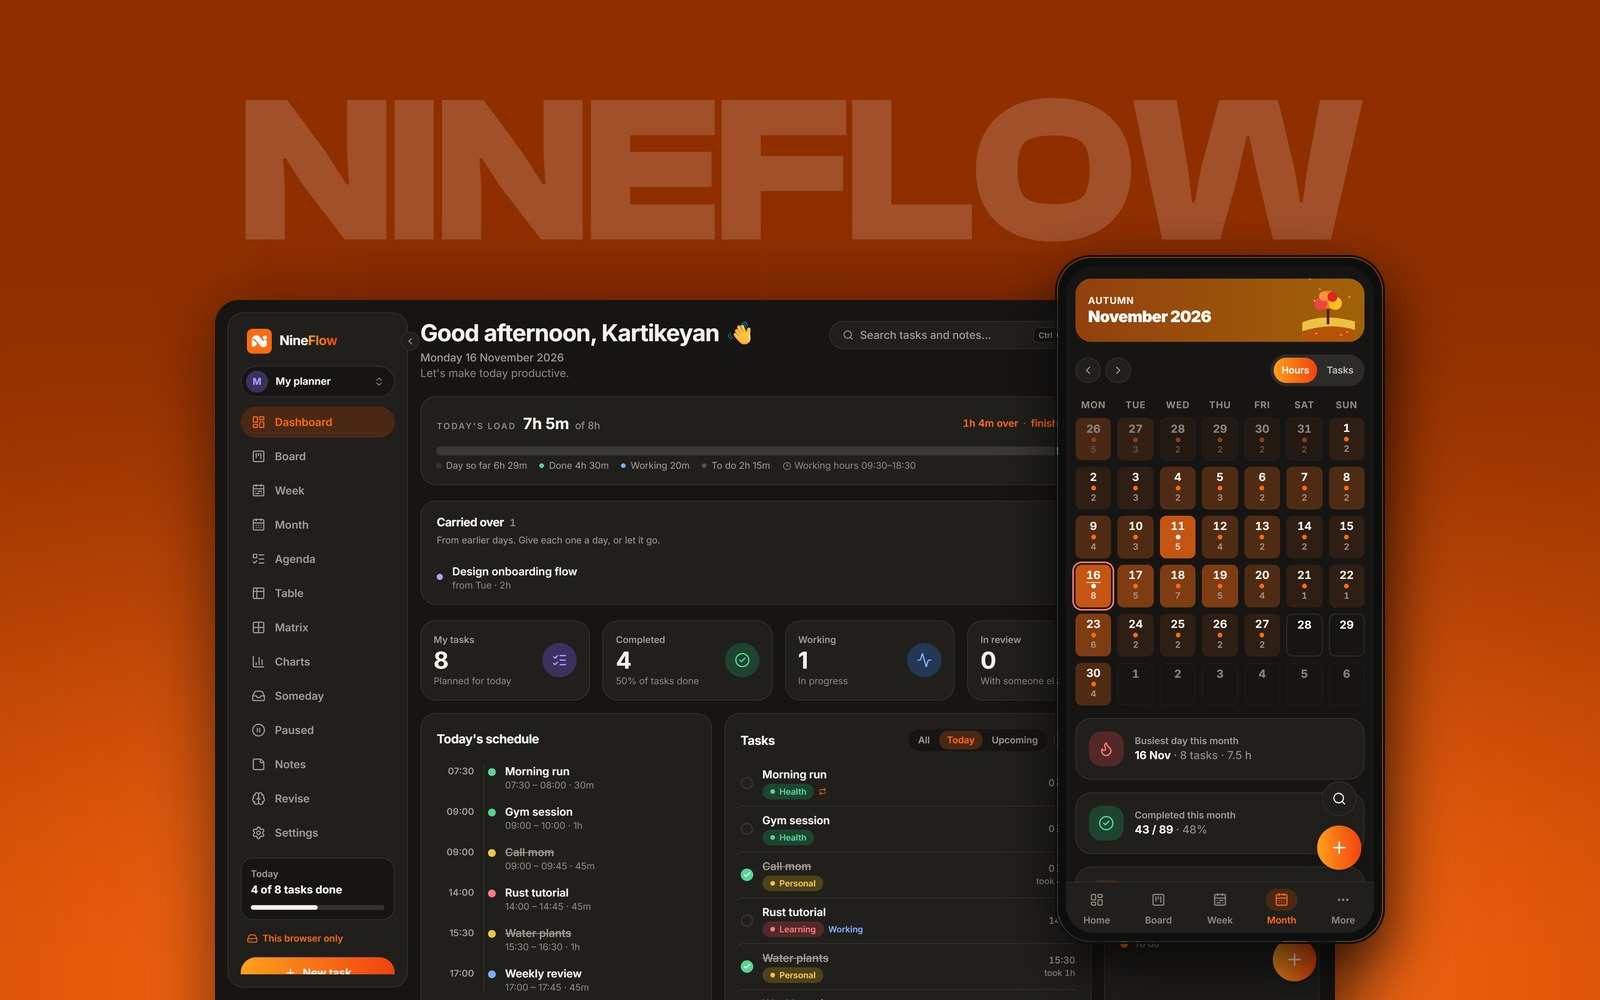
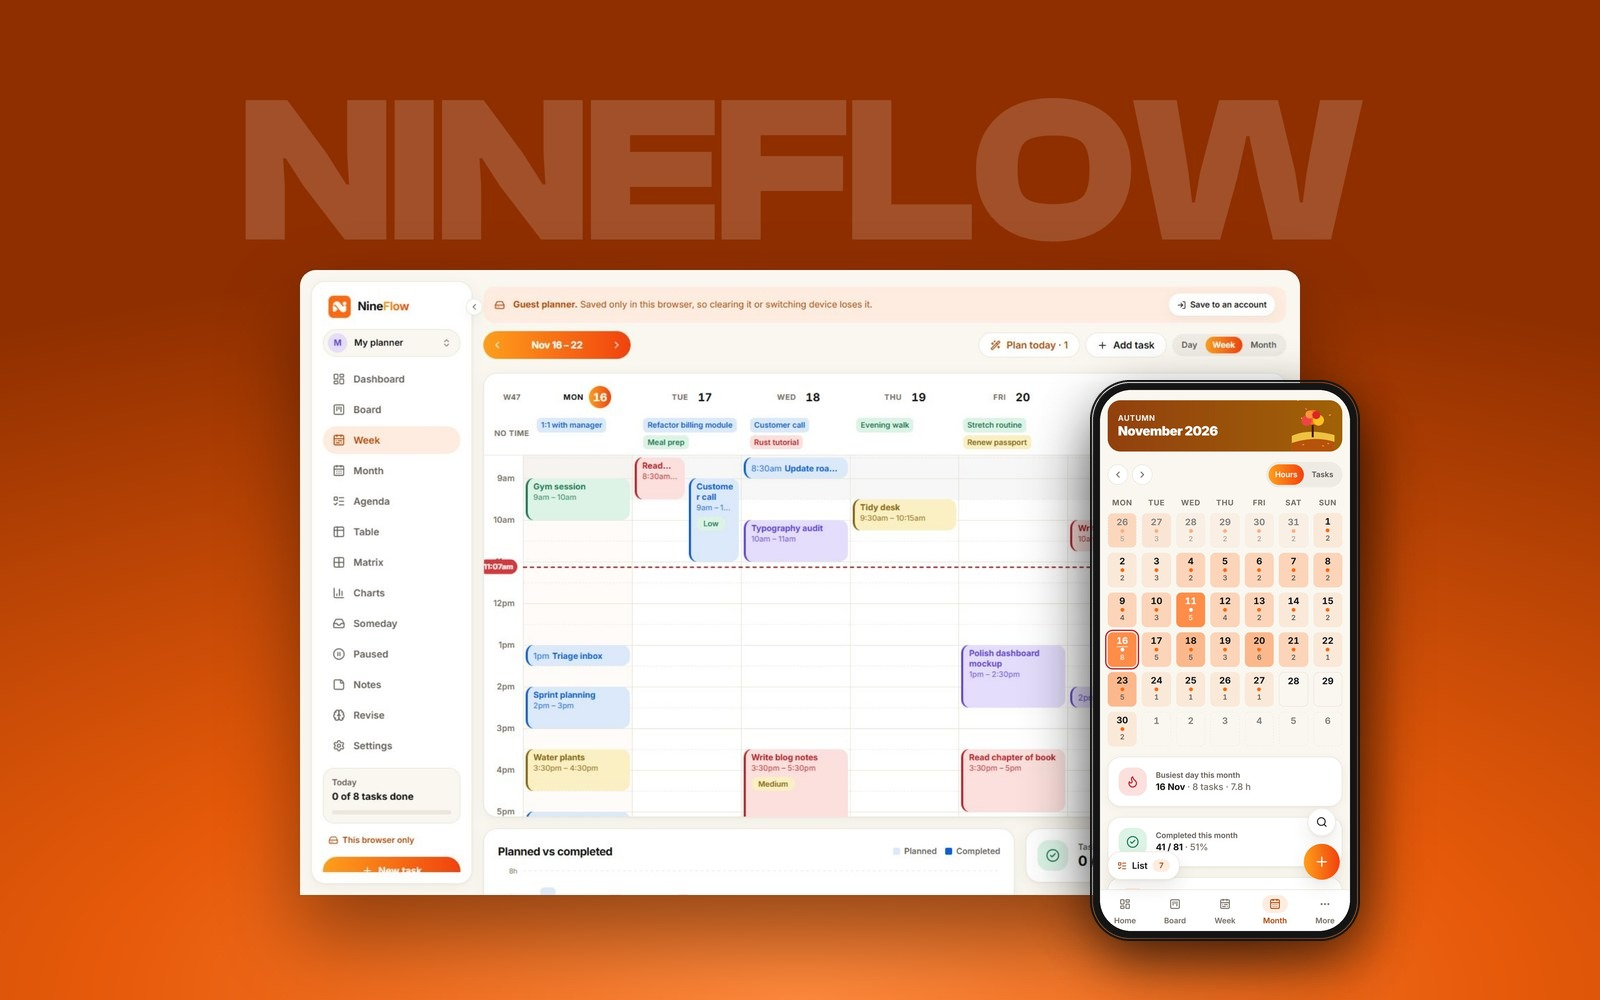
Bring back the light NineFlow cover
The owner prefers the light version at its earlier size: the week
calendar in a light window and the complete month-view phone (as in
5e96571). Restores that cover and its alt text.

diff --git a/nineflow.html b/nineflow.html
@@ -70,7 +70,7 @@
     <div><dt>Type</dt><dd>Own</dd><small>product</small></div>
   </dl>
   <p class="rx-desc">A daily planner, focus timer and work log in one app, for anyone who wants to plan the day and see where the hours really went.</p>
-  <div class="hero__cover pd-cover" data-item="cover" style="view-transition-name:shot-nineflow;view-transition-class:shot"><img src="assets/images/projects/nineflow/cover.jpg" alt="NineFlow in dark mode: the Dashboard on desktop and the Month calendar on a phone, in front of a large NINEFLOW wordmark on orange" /></div>
+  <div class="hero__cover pd-cover" data-item="cover" style="view-transition-name:shot-nineflow;view-transition-class:shot"><img src="assets/images/projects/nineflow/cover.jpg" alt="NineFlow: the week calendar on a laptop and the month view on a phone, in front of a large NINEFLOW wordmark on orange" /></div>
 </header>
 
 
